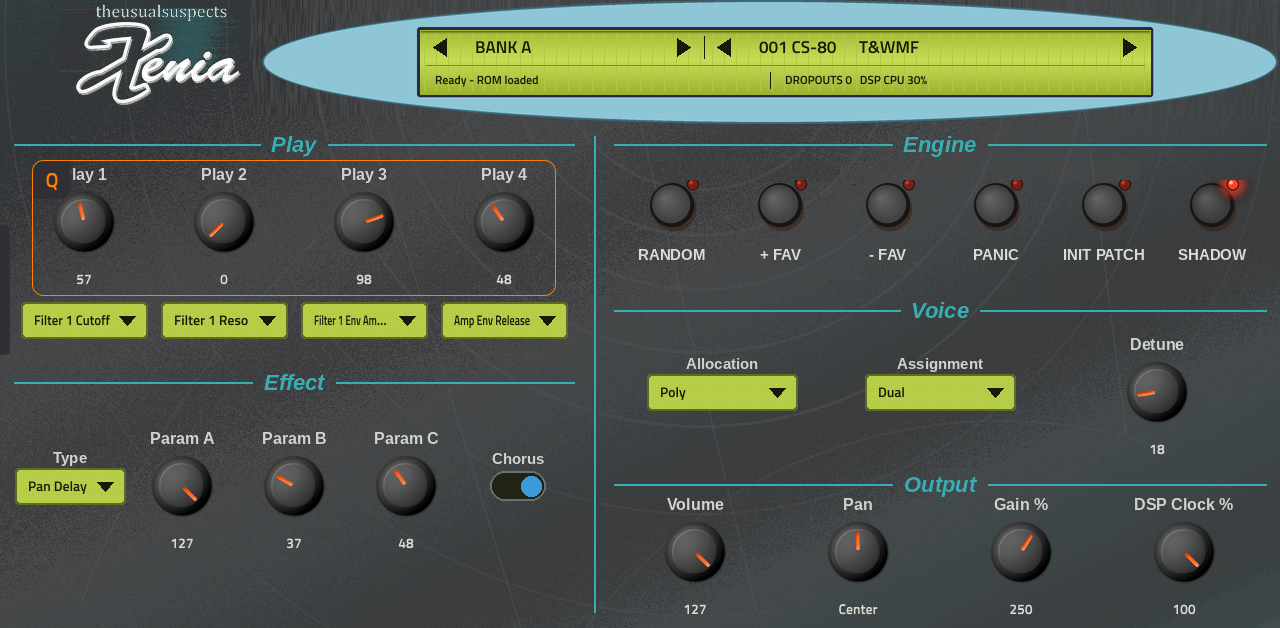
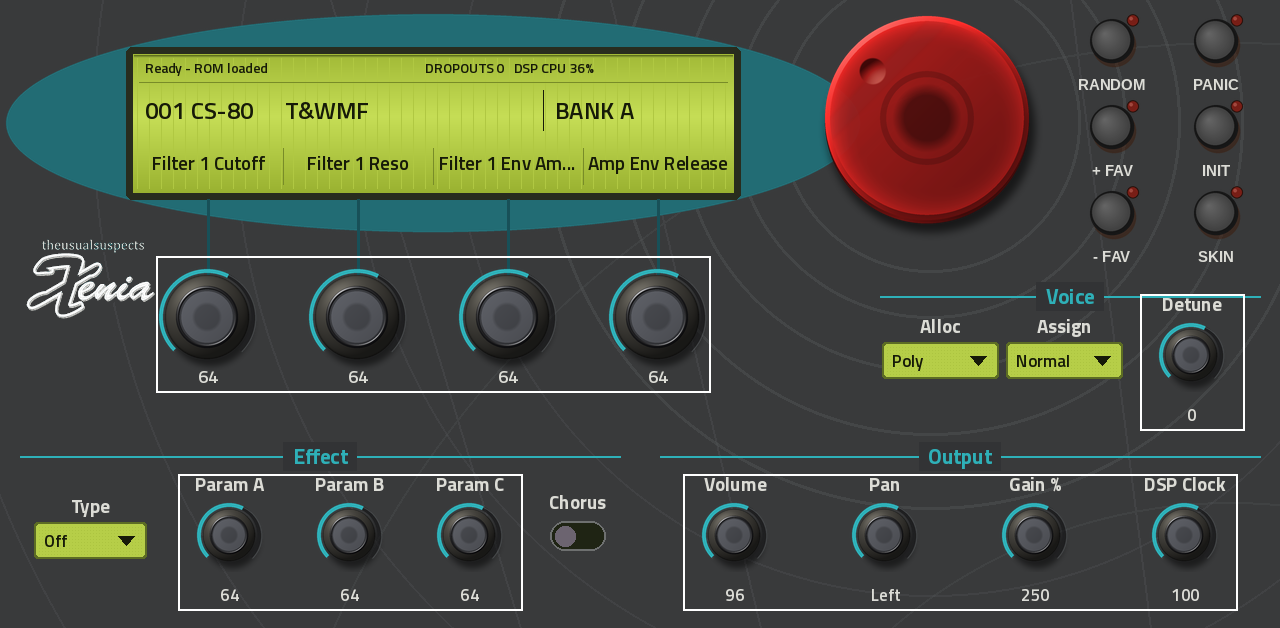
Xenia 1.1.0: version, README, release notes, tested.json
Claude-Session: https://claude.ai/code/session_01V7tb5w5dPsa6WFixuaniE5

diff --git a/tests/host_test.cpp b/tests/host_test.cpp
@@ -135,7 +135,7 @@ int main(int argc, char** argv)
     CHECK(a->uniqueID == (VstInt32)0x58656e41, "uid XenA (%08x)", (unsigned)a->uniqueID);
     CHECK(!std::strcmp(name, XENIA_EXPECT_NAME), "name \"%s\"", name);
     CHECK(a->numParams == 391, "391 params: 332 frozen + 59 appended (%d)", a->numParams);
-    CHECK(a->dispatcher(a, effGetVendorVersion, 0, 0, nullptr, 0) == 1002, "version 1002");
+    CHECK(a->dispatcher(a, effGetVendorVersion, 0, 0, nullptr, 0) == 1100, "version 1100");
     {
         int bad = 0, i = 0;
         FILE* f = std::fopen("params.lock", "r");

diff --git a/src/XeniaPlugin.cpp b/src/XeniaPlugin.cpp
@@ -55,7 +55,7 @@ extern "C" void xenia_render_float(void* inst, float* out, int frames);   // src
 #endif
 #define XENIA_FOURCC(...) MPC_FOURCC(__VA_ARGS__)   // expands XENIA_UID before MPC_FOURCC counts its arguments
 #ifndef XENIA_VERSION
-#define XENIA_VERSION 1002
+#define XENIA_VERSION 1100
 #endif
 
 namespace {

diff --git a/README.md b/README.md
@@ -15,14 +15,16 @@ mode (the XT's power-on state): the multi, wave editor and Global menu are not e
 ## What's in it
 - **Ten pages**: PLAY, BANKS, OSC, AMP & ARP, FILTER, ENV & LFO, WAVE ENV, MOD, SLOTS 1-8 and SLOTS 9-16. Every block of four controls is a Q-Link group
   that the MPC outlines on the page; pages with more controls have sub-pages (press the page key again).
-- **One display** on PLAY: bank and sound with step arrows, engine status and DSP load below. Tap the arrows, or turn the data wheel.
-- **Two skins**, switched with the **SHADOW EDITION** key on PLAY: **Classic**, the orange XT panel with its red rings, red Cutoff and Wavetable knobs,
-  and the **Shadow Edition**, the black panel with teal print. The choice applies to every Xenia on the MPC and stays until you switch again.
+- **PLAY like the XT's front**: an LCD in the teal ellipse (engine status and DSP load; the sound and its bank, which the data wheel steps; the sources of
+  Play 1-4, each over its knob: tap one to pick another), the red data dial that steps the sound, big Play 1-4 knobs on leader lines, the keys beside the
+  dial, then Voice, Effect and Output.
+- **Two skins**, switched with the **SKIN** key on PLAY: **Classic**, the orange XT panel with its red rings, red value rings and red Cutoff and Wavetable
+  knobs, and the **Shadow Edition**, the black panel with teal print and teal value rings. The choice applies to every Xenia on the MPC and stays until you switch again.
 - **Your own sound banks**: every Microwave XT SysEx dump (`.syx`, or a `.mid` that carries one) in the plugin folder's `xenia/banks/` becomes a bank after
   ROM banks A and B (up to 64 banks of 256 sounds). The BANKS page lists ten banks a page and 30 sounds a page; BANK, PRESET and MIDI program change and bank
   select reach them too. A project saved on a user sound keeps that sound even if the bank file changes later.
 - **RANDOM** picks a random sound from every loaded bank.
-- **Favourites in MPC's PRESET list**: **+ FAV** stores the current sound with your edits (up to 64), pick it from the PRESET list on the track or from a
+- **Named favourites in MPC's PRESET list**: **+ FAV** opens an on-screen keyboard with the sound's name; edit it and SAVE to store the sound with your edits (up to 64), pick it from the PRESET list on the track or from a
   pad, **− FAV** removes the favourite that is picked.
 - **Projects saved with 0.1.x still load** with their sound and edits. The parameter order is unchanged, so automation and Q-Link assignments carry over;
   only BANK and PRESET now run up to 63 and 255 (for the user banks).
@@ -41,10 +43,10 @@ starts; until it finds one the display says `No Microwave XT ROM in xenia/roms/`
 
 ## Install
 From [Releases](https://github.com/sd88me/mpc-vst-xenia/releases):
-- **`Xenia-1.0.2-mpc-sdk.zip`**: the plugin folder `sd88me - VST - Xenia`. Copy it into a `VST2 Plugins` folder on a drive of the MPC, put your ROM in
+- **`Xenia-1.1.0-mpc-sdk.zip`**: the plugin folder `sd88me - VST - Xenia`. Copy it into a `VST2 Plugins` folder on a drive of the MPC, put your ROM in
   its `xenia/roms/`, and restart the MPC. This needs MPC OS 3.10.1 or later, with **Preferences → Enhancements (Beta) → Enable Enhancements** and
   **External Plugin Support** switched on. Xenia is then listed under External VST Plugins → sd88me.
-- **`Xenia-1.0.2-mpc-aarch64.zip`**: unzip, copy the folder to the device and run `sh install.sh` as root (it stops and restarts MPC and backs up
+- **`Xenia-1.1.0-mpc-aarch64.zip`**: unzip, copy the folder to the device and run `sh install.sh` as root (it stops and restarts MPC and backs up
   `MPC.settings`; on a Live III the writable drive is `/nvme/Synths`: `sh install.sh -t /nvme/Synths`). It upgrades a 0.1.x install in place and keeps
   your ROM, sound banks, favourites and skin choice.
 

diff --git a/release/notes-1.1.0.md b/release/notes-1.1.0.md
@@ -1,0 +1,25 @@
+# Xenia 1.1.0
+
+A new PLAY page in the look of the Microwave XT's front panel, named favourites, and cleaner output.
+
+## What's new
+- **PLAY like the XT's front**: the LCD in the teal ellipse shows the engine status and DSP load, the sound and its bank (the data wheel steps them), and
+  the sources of Play 1-4, each right over its knob: tap a source to pick another. The red data dial at the end of the ellipse steps the sound. Big Play 1-4
+  knobs hang from the LCD on leader lines; the keys sit 2 x 3 beside the dial; Voice, Effect and Output follow below.
+- **New knobs on every page**: the cone shape with a value ring instead of a pointer, red on Classic and teal on the Shadow Edition.
+- **Named favourites**: **+ FAV** opens an on-screen keyboard with the sound's name; edit it and SAVE. CANCEL stores nothing.
+- **SKIN** key (was SHADOW EDITION) on PLAY switches between Classic and the Shadow Edition.
+- **Cleaner output**: audio reaches the MPC in floating point, so loud sounds no longer clip in the plugin.
+- Projects saved with 0.1.x and 1.0.x still load; the parameter order is unchanged.
+
+## Install
+- `Xenia-1.1.0-mpc-sdk.zip`: copy the folder `sd88me - VST - Xenia` into a `VST2 Plugins` folder on a drive of the MPC and put your ROM in its
+  `xenia/roms/` (sound banks in `xenia/banks/`). Needs MPC OS 3.10.1 or later, with Preferences → Enhancements (Beta) → Enable Enhancements and
+  External Plugin Support switched on.
+- `Xenia-1.1.0-mpc-aarch64.zip`: run `install.sh` on the device as root. An older install is upgraded in place; your ROM, banks and favourites are kept.
+
+Use one of the two, not both. 64-bit MPCs only (Live III and others). Your own Microwave II or XT ROM is required and not included.
+
+## Notes
+- Tested on an MPC Live III as the identical beta build (Xenia 2 Beta): PLAY, the dial, the LCD source lists, the keyboard and both skins.
+  Save/reload and the install.sh upgrade were not tried on the device.
